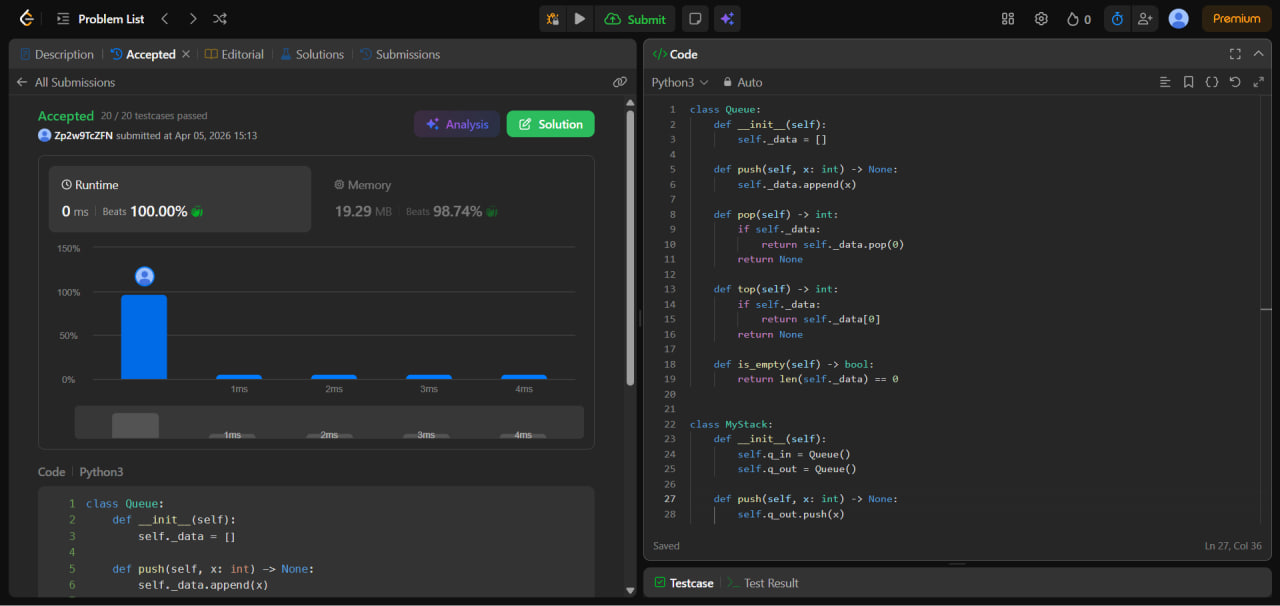
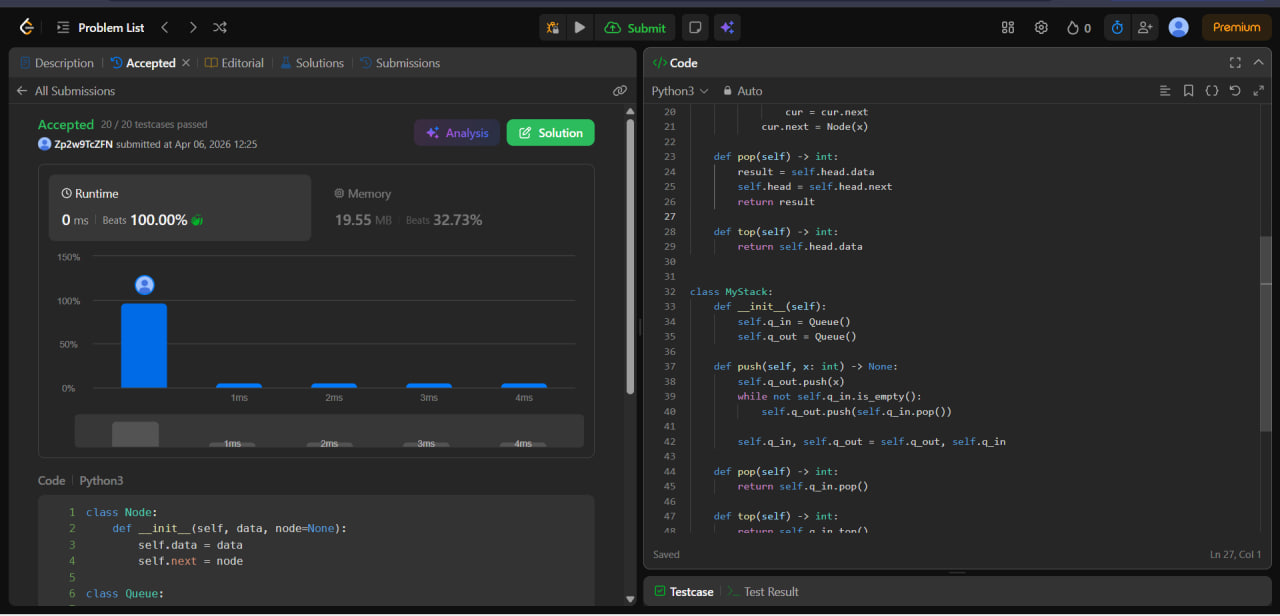
stacks_using_queue
Edit code by using LinkedList
Adding another picture

diff --git a/Stack using Queues/stack_using_queues.py b/Stack using Queues/stack_using_queues.py
@@ -1,22 +1,32 @@
+class Node:
+    def __init__(self, data, node=None):
+        self.data = data
+        self.next = node
+
 class Queue:
+
     def __init__(self):
-        self._data = []
-
-    def push(self, x: int) -> None:
-        self._data.append(x)
-
-    def pop(self) -> int:
-        if self._data:
-            return self._data.pop(0)
-        return None
-
-    def top(self) -> int:
-        if self._data:
-            return self._data[0]
-        return None
+        self.head = None
 
     def is_empty(self) -> bool:
-        return len(self._data) == 0
+        return self.head is None
+
+    def push(self, x: int) -> None:
+        if self.is_empty():
+            self.head = Node(x)
+        else:
+            cur = self.head
+            while cur.next:
+                cur = cur.next
+            cur.next = Node(x)
+
+    def pop(self) -> int:
+        result = self.head.data
+        self.head = self.head.next
+        return result
+
+    def top(self) -> int:
+        return self.head.data
 
 
 class MyStack:
